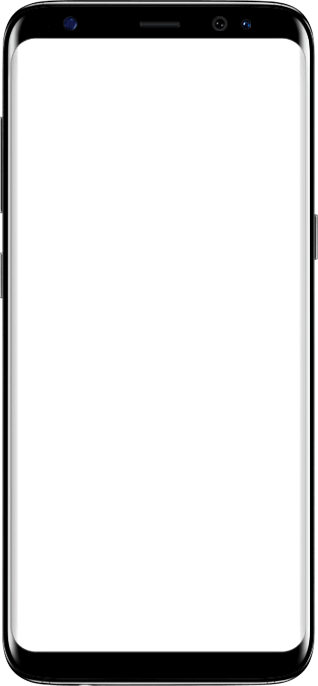
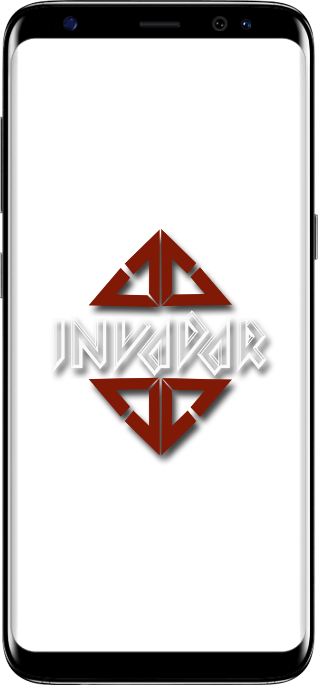
Title and image

diff --git a/index.html b/index.html
@@ -7,7 +7,7 @@
 	<head>
 	<meta charset="utf-8">
 	<meta http-equiv="X-UA-Compatible" content="IE=edge">
-	<title>Ranger &mdash; 100% Free Fully Responsive HTML5 Template by FREEHTML5.co</title>
+	<title>Invadar</title>
 	<meta name="viewport" content="width=device-width, initial-scale=1">
 	<meta name="description" content="Free HTML5 Template by FREEHTML5.CO" />
 	<meta name="keywords" content="free html5, free template, free bootstrap, html5, css3, mobile first, responsive" />
@@ -39,7 +39,7 @@
 	<meta name="twitter:card" content="" />
 
 	<!-- Place favicon.ico and apple-touch-icon.png in the root directory -->
-	<link rel="shortcut icon" href="images/favicon.png">
+	<link rel="shortcut icon" href="images/invadar-logo.png">
 	
 	<link href='https://fonts.googleapis.com/css?family=Work+Sans:400,300,700|Montserrat:400,700' rel='stylesheet' type='text/css'>
 	
